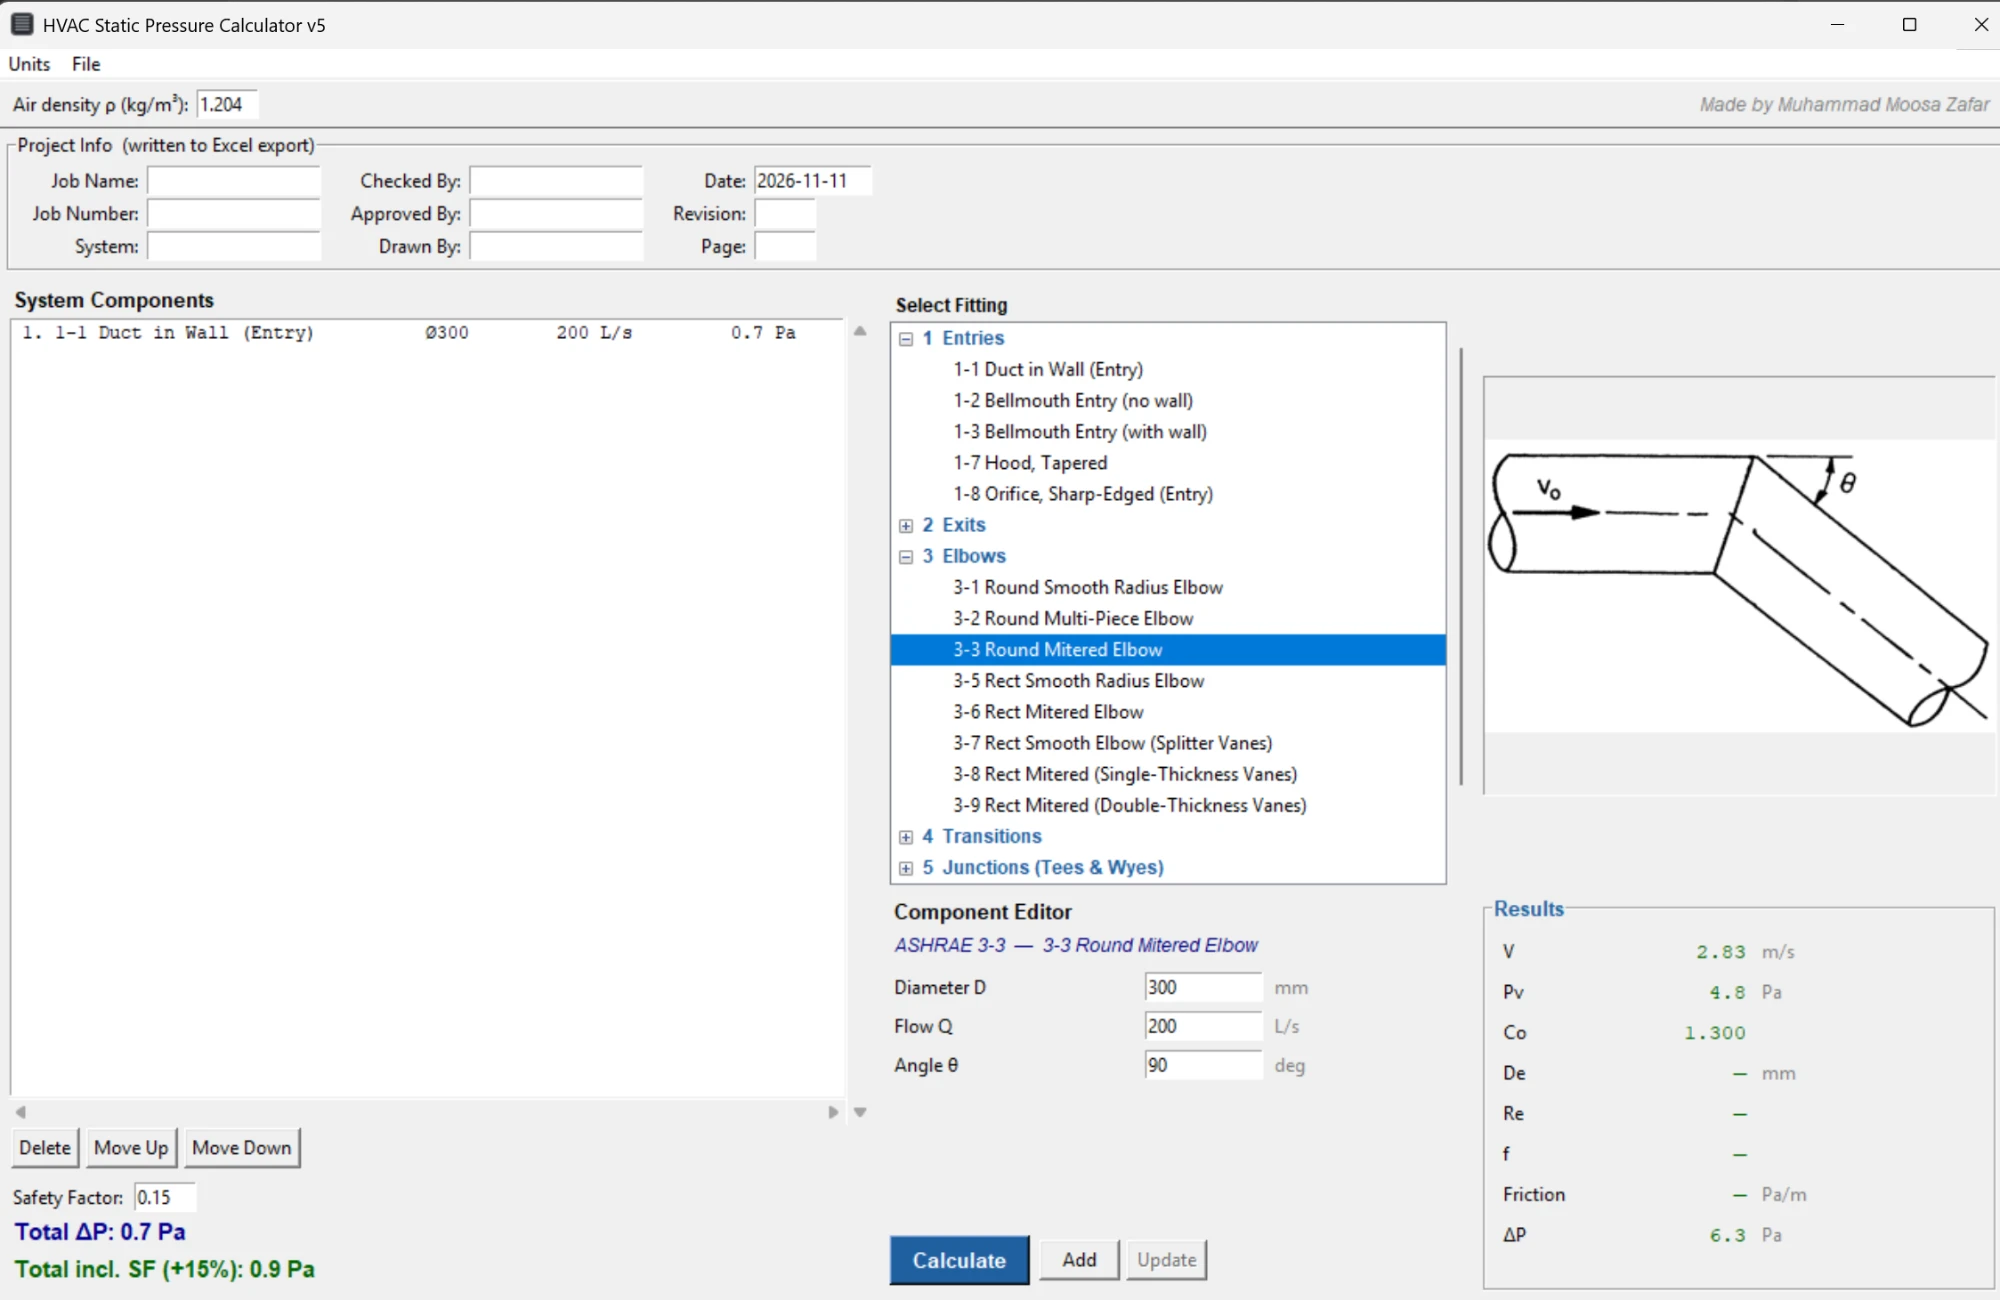
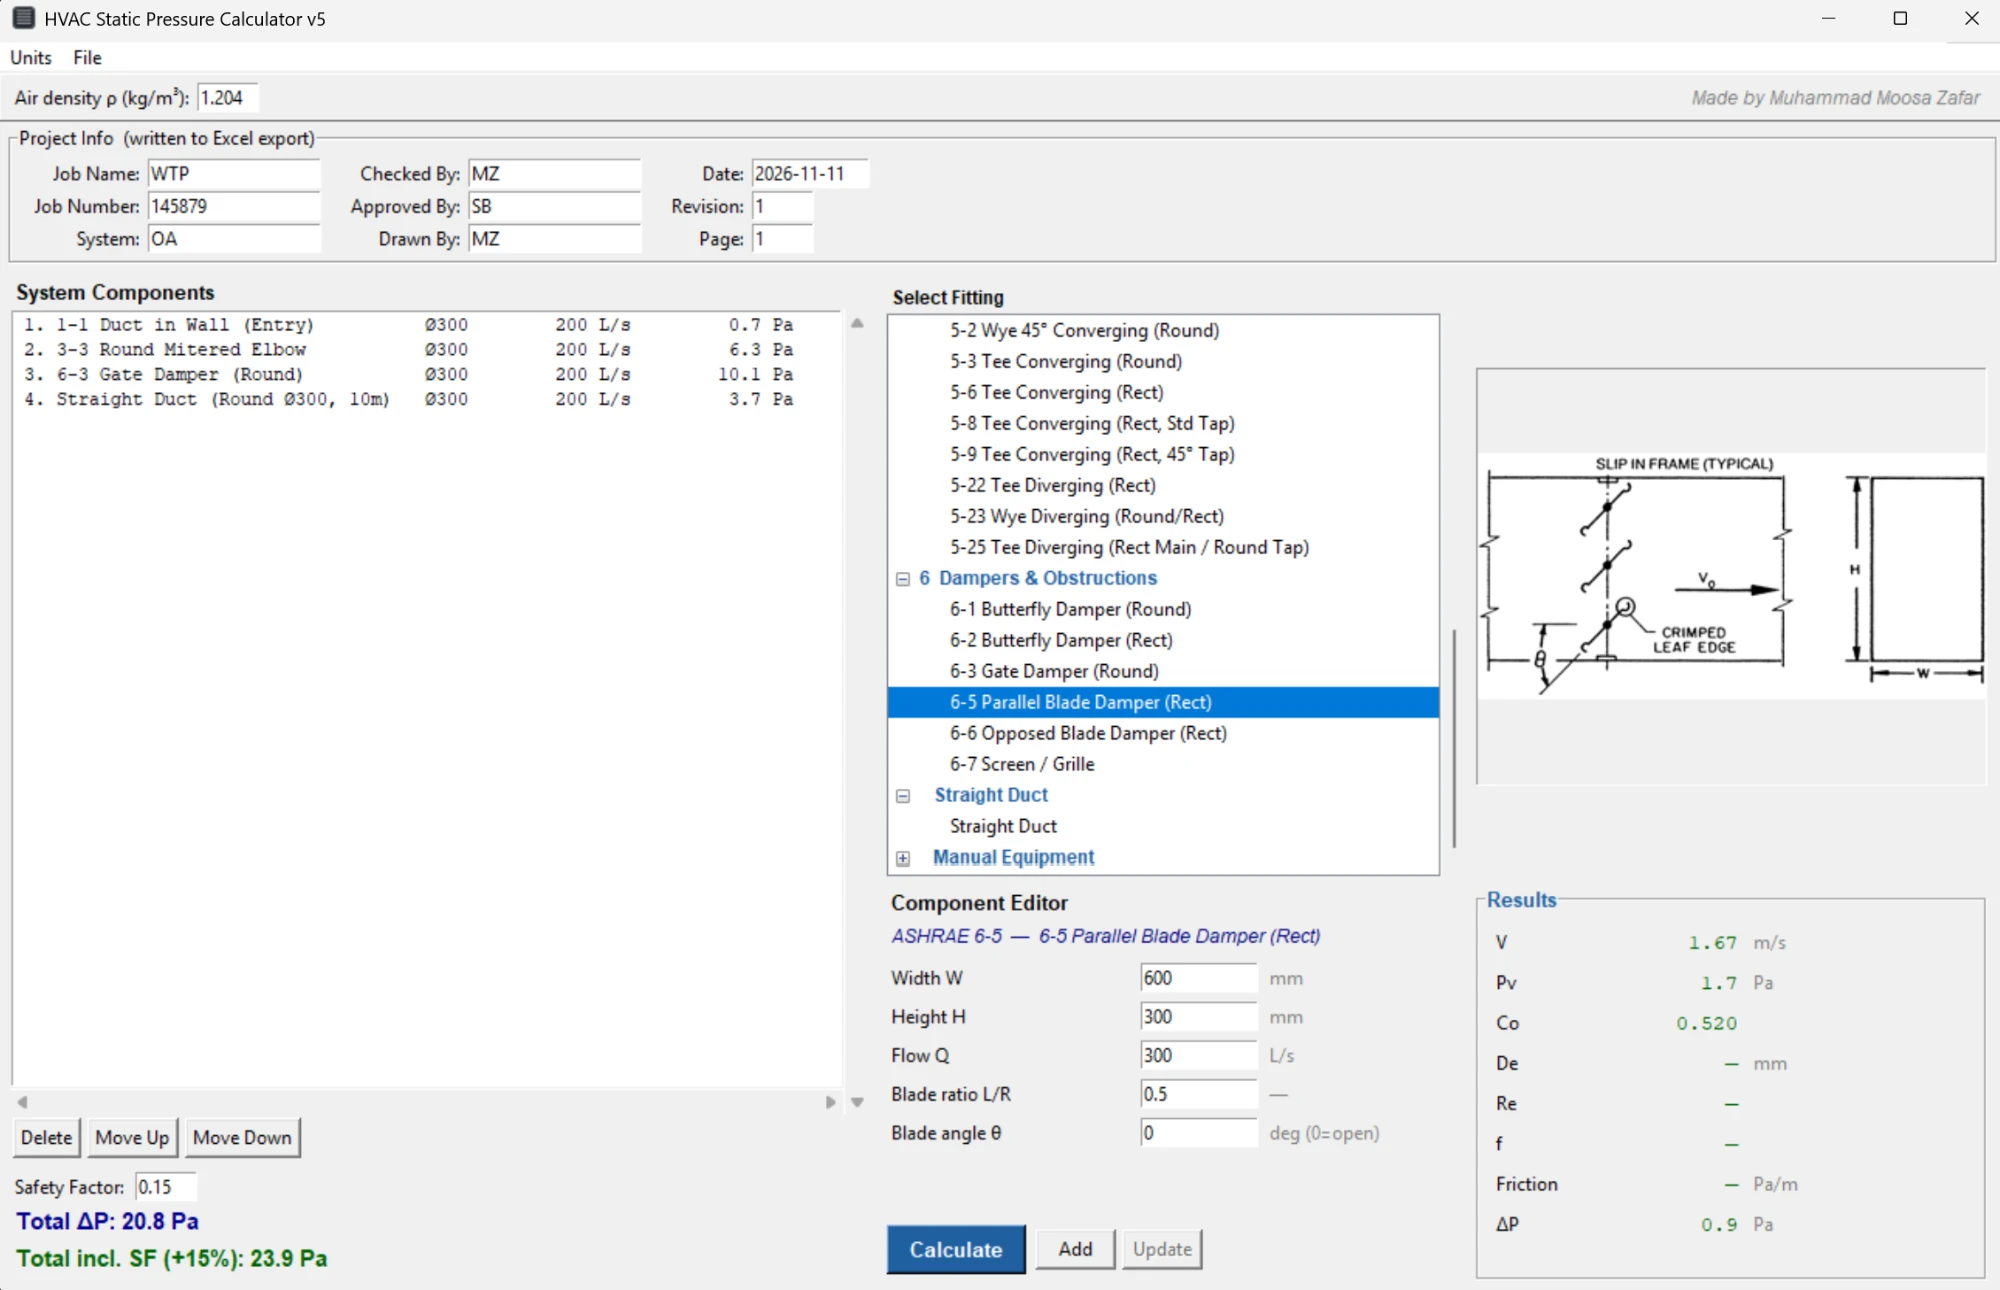
Engineering: fuller calculator screenshot
Shows a four-component run with totals instead of a single fitting.

diff --git a/engineering/index.html b/engineering/index.html
@@ -115,8 +115,8 @@
         </div>
       </article>
 
-      <article class="proj has-shot" data-shot="/images/esp-calculator.webp" data-shot-w="2000" data-shot-h="1300"
-               data-shot-alt="The calculator window: a list of duct system components on the left, a tree of fitting types in the middle, and the calculated velocity, loss coefficient and pressure drop for a round mitered elbow on the right."
+      <article class="proj has-shot" data-shot="/images/esp-calculator.webp?v=2" data-shot-w="2000" data-shot-h="1290"
+               data-shot-alt="The calculator window: a four-component duct run listed on the left with the pressure drop of each, a tree of fitting types in the middle with a parallel blade damper selected, its dimensions in the component editor, and the calculated velocity, loss coefficient and pressure drop on the right. Total 20.8 pascals, 23.9 with the safety factor."
                data-shot-cap="HVAC Static Pressure Calculator, version 5">
         <p class="proj-num">02</p>
         <div class="proj-body">
